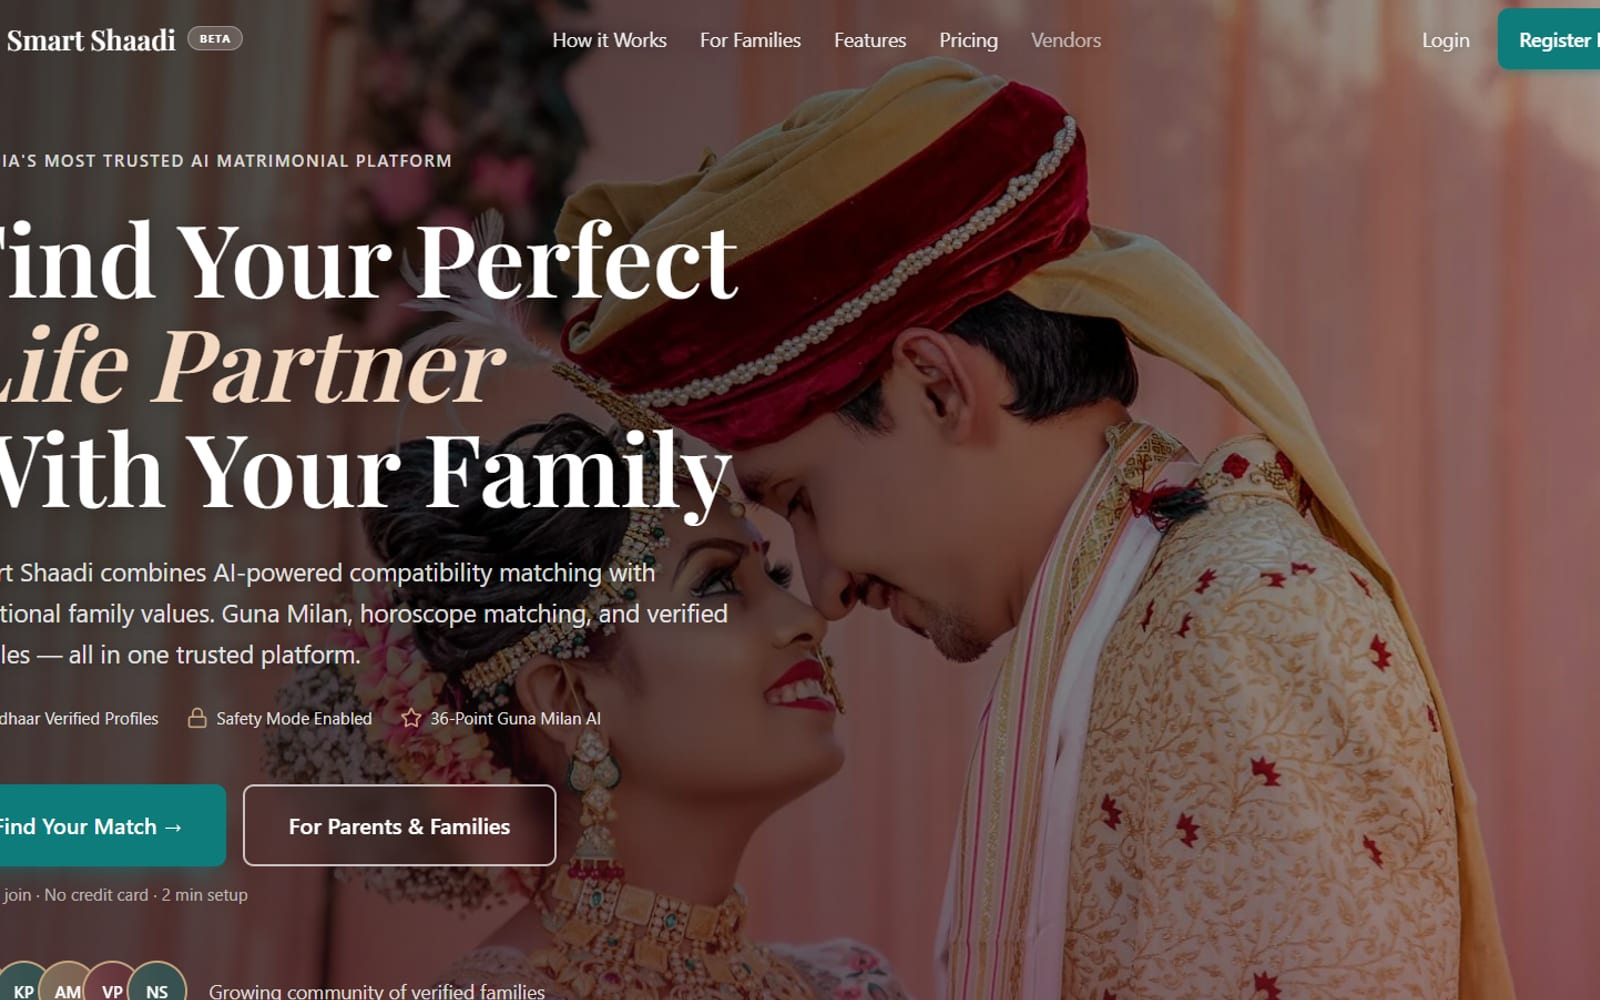
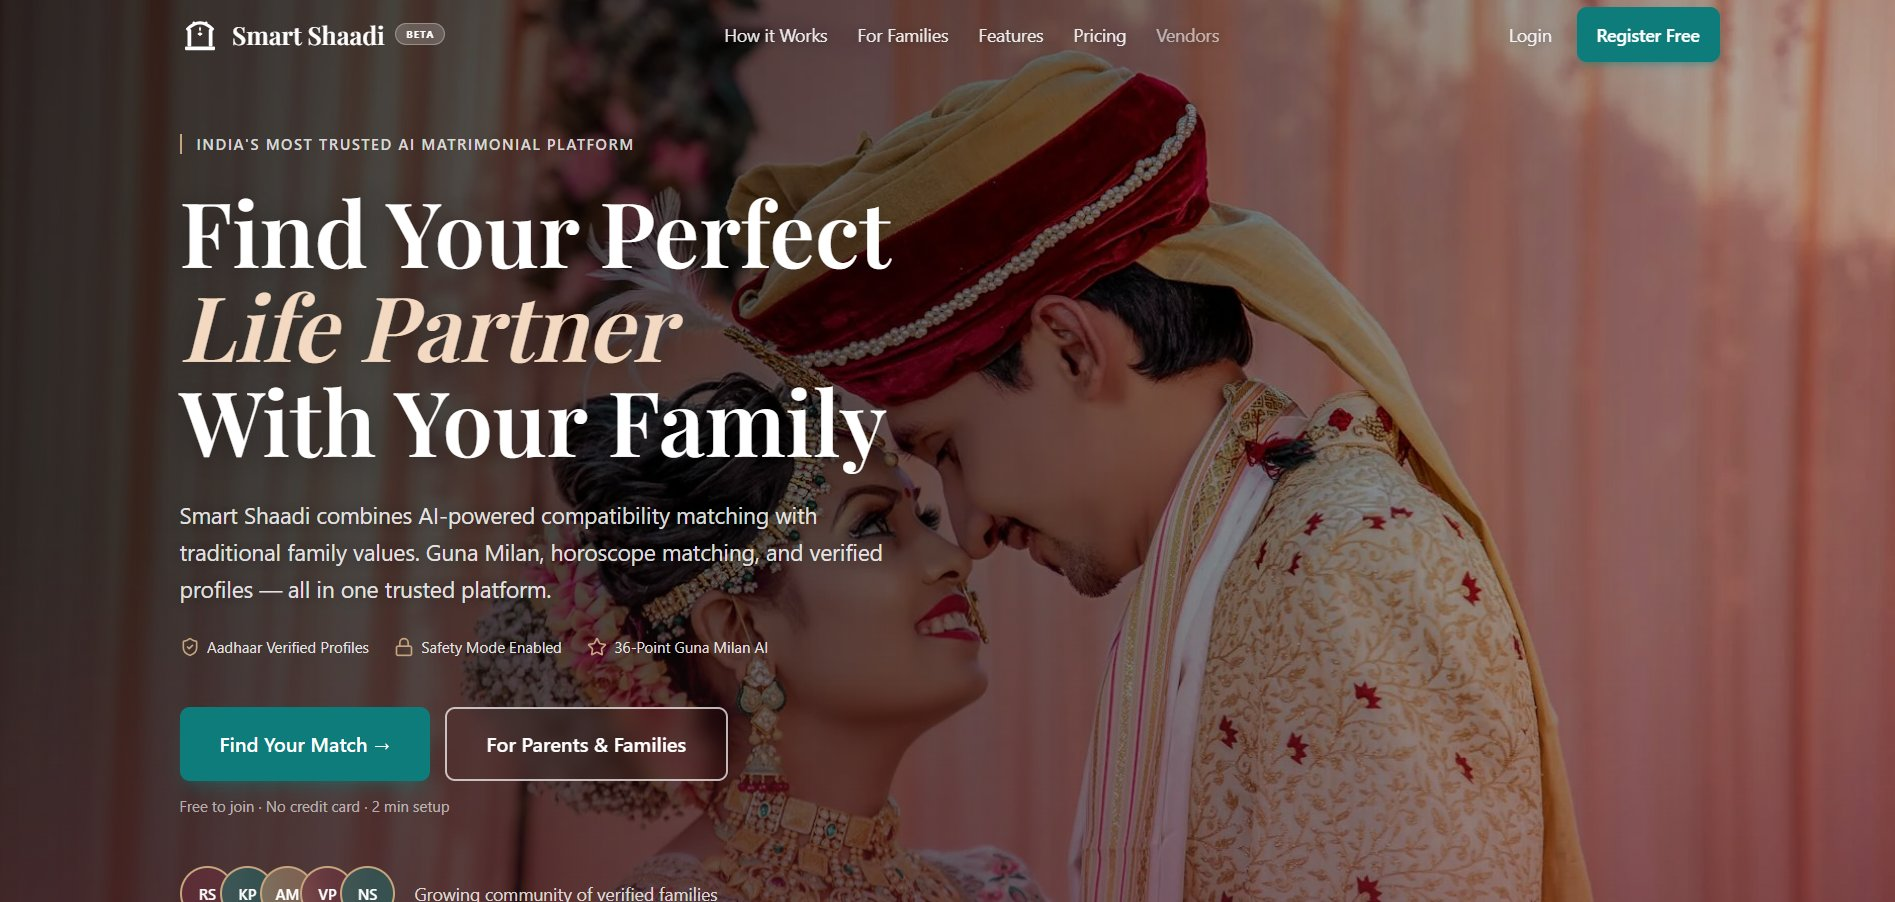
Apply portfolio review corrections and presentation refinements

diff --git a/src/components/Work.tsx b/src/components/Work.tsx
@@ -142,12 +142,19 @@ type Featured = {
   status: StatusKind;
   problem: string;
   contribution: string;
-  implementation: string;
+  implementation: string | string[];
+  technicalDetails?: string;
   statusNote: string;
   stack: string[];
   link?: { url: string; label: string };
   media:
-    | { kind: "image"; src: string; monogram: string }
+    | {
+        kind: "image";
+        src: string;
+        monogram: string;
+        imageFit?: "cover" | "contain";
+        fullImage?: boolean;
+      }
     | { kind: "detail"; monogram: string; features: string[] };
 };
 
@@ -163,8 +170,14 @@ const featured: Featured[] = [
       "Matrimonial platforms match on filters, not on how two people actually communicate or whether their families align.",
     contribution:
       "I built the platform end to end — profiles, authentication, chat and payment integrations — and designed and wired its AI layer.",
-    implementation:
-      "A streaming, multi-turn AI assistant with conversational memory and 13 read-only tools, backed by a provider-agnostic layer that switches between Gemini and Claude. Semantic profile re-ranking runs on 768-dimensional embeddings in PostgreSQL/pgvector. Six user-facing AI features are wired end to end — a conversation coach, a sentiment-based emotional score, an experimental compatibility-risk indicator, family-values compatibility, the streaming assistant and semantic re-ranking. Further backend/admin models (churn risk, response-rate reputation, marriage-readiness and profile optimisation) are implemented without a public UI.",
+    implementation: [
+      "Streaming, multi-turn assistant with conversational memory and read-only tool calling.",
+      "Provider-agnostic AI layer supporting Gemini and Claude.",
+      "Semantic profile re-ranking with embeddings in PostgreSQL / pgvector.",
+      "Conversation coaching, emotional scoring and experimental compatibility indicators.",
+    ],
+    technicalDetails:
+      "Semantic profile re-ranking uses 768-dimensional embeddings. Six user-facing AI features are wired end to end: a conversation coach, a sentiment-based emotional score, an experimental compatibility-risk indicator, family-values compatibility, the streaming assistant and semantic re-ranking. Further backend/admin models for churn risk, response-rate reputation, marriage-readiness and profile optimisation are implemented without a public UI.",
     statusNote:
       "Pre-launch: company registration is pending and the environment currently runs on dummy data and services ahead of commercial launch. The compatibility and risk indicators are experimental, not scientifically validated.",
     stack: [
@@ -179,6 +192,8 @@ const featured: Featured[] = [
     media: {
       kind: "image",
       src: "/media/smart-shaadi.jpg",
+      imageFit: "contain",
+      fullImage: true,
       monogram: "SS",
     },
   },
@@ -217,10 +232,10 @@ const featured: Featured[] = [
     contribution:
       "I built and deployed the live website and its admin tooling, and developed the companion Android app.",
     implementation:
-      "Medicine composition search, prescription upload, order management and catalogue import/export for bulk inventory — built on Next.js and Node.js with payment and order flows.",
+      "Medicine composition search, prescription upload, order management and catalogue import/export for bulk inventory — built on Next.js and Node.js with MongoDB / Mongoose, payment and order flows. The companion Android app uses Capacitor.",
     statusNote:
-      "Live website. The Android app is in Google Play testing, not yet publicly launched.",
-    stack: ["Next.js", "Node.js", "PostgreSQL", "Payments"],
+      "Live website. Capacitor Android app in Google Play testing, not yet publicly launched.",
+    stack: ["Next.js", "Node.js", "MongoDB / Mongoose", "Capacitor", "Payments"],
     link: { url: "https://www.pratigyamedicalstore.com/", label: "Visit site" },
     media: {
       kind: "image",
@@ -230,7 +245,7 @@ const featured: Featured[] = [
   },
 ];
 
-function FeatureBlock({ label, body }: { label: string; body: string }) {
+function FeatureBlock({ label, body }: { label: string; body: string | string[] }) {
   return (
     <div style={{ marginBottom: "1rem" }}>
       <p
@@ -239,12 +254,22 @@ function FeatureBlock({ label, body }: { label: string; body: string }) {
       >
         {label}
       </p>
-      <p
-        className="text-body-sm"
-        style={{ color: "var(--color-text-secondary)" }}
-      >
-        {body}
-      </p>
+      {Array.isArray(body) ? (
+        <ul
+          className="text-body-sm"
+          style={{
+            color: "var(--color-text-secondary)",
+            listStyleType: "disc",
+            paddingLeft: "1.2rem",
+            display: "grid",
+            gap: "0.4rem",
+          }}
+        >
+          {body.map((item) => <li key={item}>{item}</li>)}
+        </ul>
+      ) : (
+        <p className="text-body-sm" style={{ color: "var(--color-text-secondary)" }}>{body}</p>
+      )}
     </div>
   );
 }
@@ -264,14 +289,28 @@ function FeatureRow({ project, index }: { project: Featured; index: number }) {
       {/* Media / detail */}
       <div style={{ position: "relative" }}>
         {project.media.kind === "image" ? (
-          <ProjectMedia
-            type="image"
-            src={project.media.src}
-            monogram={project.media.monogram}
-            alt={`${project.name} — ${project.category}`}
-            accent={accent}
-            category={project.category}
-          />
+          <>
+            <ProjectMedia
+              imageFit={project.media.imageFit}
+              type="image"
+              src={project.media.src}
+              monogram={project.media.monogram}
+              alt={`${project.name} — ${project.category}`}
+              accent={accent}
+              category={project.category}
+            />
+            {project.media.fullImage && (
+              <a
+                href={project.media.src}
+                target="_blank"
+                rel="noopener noreferrer"
+                className="link-underline text-mono-sm"
+                style={{ display: "inline-block", marginTop: "0.75rem", color: "var(--color-accent-teal)" }}
+              >
+                Open full screenshot <span aria-hidden>↗</span>
+              </a>
+            )}
+          </>
         ) : (
           <div className="project-detail-panel">
             <div
@@ -358,6 +397,12 @@ function FeatureRow({ project, index }: { project: Featured; index: number }) {
         <FeatureBlock label="Problem" body={project.problem} />
         <FeatureBlock label="My contribution" body={project.contribution} />
         <FeatureBlock label="Implementation" body={project.implementation} />
+        {project.technicalDetails && (
+          <details style={{ marginBottom: "1rem", color: "var(--color-text-secondary)" }}>
+            <summary className="text-body-sm" style={{ cursor: "pointer", color: "var(--color-accent-teal)" }}>Technical details</summary>
+            <p className="text-body-sm" style={{ marginTop: "0.75rem" }}>{project.technicalDetails}</p>
+          </details>
+        )}
         <FeatureBlock label="Current status" body={project.statusNote} />
 
         <div style={{ margin: "1.25rem 0" }}>

diff --git a/src/components/Hero.tsx b/src/components/Hero.tsx
@@ -12,14 +12,10 @@ import { useEffect, useRef, useState } from "react";
 import { RESUME_PATH } from "@/lib/site";
 
 const headlineWords: { text: string; color: string }[] = [
-  { text: "I",            color: "var(--color-text-primary)" },
-  { text: "build",        color: "var(--color-text-primary)" },
-  { text: "full-stack",   color: "var(--color-accent-teal)" },
-  { text: "web",          color: "var(--color-text-primary)" },
-  { text: "platforms",    color: "var(--color-text-primary)" },
-  { text: "and",          color: "var(--color-text-primary)" },
-  { text: "applied-AI",   color: "var(--color-accent-purple)" },
-  { text: "features.",    color: "var(--color-text-primary)" },
+  { text: "Full-stack", color: "var(--color-accent-teal)" },
+  { text: "platforms.", color: "var(--color-text-primary)" },
+  { text: "Applied", color: "var(--color-accent-purple)" },
+  { text: "AI.", color: "var(--color-text-primary)" },
 ];
 
 const roles = [
@@ -195,7 +191,7 @@ export default function Hero() {
             style={{ maxWidth: "820px" }}
           >
             {/* Availability pill */}
-            <motion.div variants={fadeUp} style={{ marginBottom: "2rem" }}>
+            <motion.div variants={fadeUp} style={{ marginBottom: "1.25rem" }}>
               <div
                 style={{
                   display: "inline-flex",
@@ -230,7 +226,7 @@ export default function Hero() {
             {/* Headline */}
             <motion.h1
               variants={container}
-              className="text-h1"
+              className="text-h1 hero-heading"
               style={{
                 marginBottom: "1.5rem",
                 display: "flex",
@@ -252,7 +248,7 @@ export default function Hero() {
                     style={{ display: "inline-block", color: w.color }}
                   >
                     {w.text}
-                  </motion.span>
+                  </motion.span>{i < headlineWords.length - 1 ? " " : null}
                 </span>
               ))}
             </motion.h1>
@@ -263,7 +259,7 @@ export default function Hero() {
               className="text-subhead"
               style={{
                 color: "var(--color-text-secondary)",
-                marginBottom: "1.6rem",
+                marginBottom: "1rem",
                 display: "flex",
                 alignItems: "center",
                 gap: "0.5rem",
@@ -313,12 +309,9 @@ export default function Hero() {
                 fontWeight: 400,
               }}
             >
-              I turn client requirements into shipped software — owning{" "}
-              <span style={{ color: "var(--color-text-primary)", fontWeight: 500 }}>
-                architecture, development, integrations and deployment
-              </span>
-              . Experience across e-commerce, matrimonial platforms and
-              industrial IoT, with AI features built on LLM APIs, tool calling,
+              I build and ship web platforms for e-commerce, matrimonial services
+              and industrial IoT — owning architecture, development, integrations
+              and deployment. I add applied-AI features with LLM APIs, tool calling,
               semantic search and OpenCV.
             </motion.p>
 
@@ -326,7 +319,7 @@ export default function Hero() {
             <motion.p
               variants={fadeUp}
               className="text-mono-sm"
-              style={{ color: "var(--color-text-muted)", marginBottom: "2.25rem" }}
+              style={{ color: "var(--color-text-muted)", marginBottom: "1.5rem" }}
             >
               Bhopal, India ·{" "}
               <span style={{ color: "var(--color-text-secondary)" }}>

diff --git a/tests/ui-audit.spec.ts b/tests/ui-audit.spec.ts
@@ -5,11 +5,13 @@ const sections = ["About", "Work", "Experience", "Skills", "Contact"];
 
 test.beforeEach(async ({ page }) => {
   await page.goto("/");
+  // Wait for hydration before filling controlled inputs or using animated controls.
+  await expect(page.locator(".hero-ctas")).toHaveCSS("opacity", "1");
 });
 
 test("current portfolio sections and navigation work", async ({ page, isMobile }) => {
-  await expect(page.getByRole("heading", { level: 1 })).toContainText("full-stack");
-  await expect(page.getByRole("heading", { level: 1 })).toContainText("applied-AI");
+  await expect(page.getByRole("heading", { level: 1 })).toContainText("Full-stack");
+  await expect(page.getByRole("heading", { level: 1 })).toContainText("Applied AI");
   const nav = page.getByRole("navigation");
   const menu = nav.getByRole("button", { name: "Toggle menu" });
   if (isMobile) {
@@ -26,6 +28,37 @@ test("current portfolio sections and navigation work", async ({ page, isMobile }
   await expect(page).toHaveURL(/#work$/);
   await expect(page.getByRole("heading", { name: "Featured case studies." })).toBeVisible();
   if (isMobile) await expect(menu).toHaveAttribute("aria-expanded", "false");
+});
+
+test("hero actions fit a typical laptop viewport", async ({ page, isMobile }) => {
+  test.skip(isMobile, "Desktop layout acceptance check");
+  for (const viewport of [{ width: 1366, height: 768 }, { width: 1440, height: 900 }]) {
+    await page.setViewportSize(viewport);
+    await page.goto("/");
+    const hero = page.locator("#hero");
+    await expect(hero.locator(".hero-ctas")).toHaveCSS("opacity", "1");
+    for (const locator of [hero.getByRole("heading", { level: 1 }), hero.getByRole("link", { name: /view projects/i }), hero.getByRole("link", { name: /résumé/i })]) {
+      const bounds = await locator.boundingBox();
+      expect(bounds).not.toBeNull();
+      expect(bounds!.y).toBeGreaterThanOrEqual(0);
+      expect(bounds!.y + bounds!.height).toBeLessThanOrEqual(viewport.height);
+    }
+  }
+});
+
+test("Smart Shaadi technical details expand with the keyboard", async ({ page }) => {
+  const article = page.locator("#work article").filter({ has: page.getByRole("heading", { name: "Smart Shaadi", exact: true }) });
+  const details = article.locator("details");
+  await expect(details).not.toHaveAttribute("open");
+  await expect(article.getByText(/read-only tool calling/)).toBeVisible();
+  await expect(article.getByText(/Pre-launch: company registration/)).toBeVisible();
+  await details.locator("summary").focus();
+  await page.keyboard.press("Enter");
+  await expect(details).toHaveAttribute("open", "");
+  await expect(details.getByText(/768-dimensional/)).toBeVisible();
+  await page.keyboard.press("Enter");
+  await expect(details).not.toHaveAttribute("open");
+  await expect(article.getByRole("link", { name: /open full screenshot/i })).toHaveAttribute("href", "/media/smart-shaadi.jpg");
 });
 
 test("all project screenshots load and retain their status labels", async ({ page }) => {

diff --git a/src/components/About.tsx b/src/components/About.tsx
@@ -75,31 +75,6 @@ export default function About() {
                 style={{
                   position: "absolute",
                   inset: 0,
-                  backgroundImage:
-                    "radial-gradient(circle, var(--color-border) 1px, transparent 1px)",
-                  backgroundSize: "18px 18px",
-                  opacity: 0.18,
-                  pointerEvents: "none",
-                }}
-              />
-              <div
-                aria-hidden
-                style={{
-                  position: "absolute",
-                  top: 0,
-                  right: 0,
-                  width: "70%",
-                  height: "70%",
-                  background:
-                    "linear-gradient(225deg, rgba(6,201,168,0.12), transparent 60%)",
-                  pointerEvents: "none",
-                }}
-              />
-              <div
-                aria-hidden
-                style={{
-                  position: "absolute",
-                  inset: 0,
                   background:
                     "linear-gradient(to top, rgba(0,0,0,0.8) 0%, rgba(0,0,0,0.18) 38%, transparent 62%)",
                   pointerEvents: "none",
@@ -139,20 +114,6 @@ export default function About() {
                   Full-Stack Engineer · Bhopal, India
                 </span>
               </div>
-
-              <div
-                aria-hidden
-                style={{
-                  position: "absolute",
-                  left: 0,
-                  right: 0,
-                  height: "1px",
-                  background:
-                    "linear-gradient(90deg, transparent, rgba(6,201,168,0.5), transparent)",
-                  animation: "scan-line 4s linear infinite",
-                  pointerEvents: "none",
-                }}
-              />
             </div>
 
             <p

diff --git a/src/components/ProjectMedia.tsx b/src/components/ProjectMedia.tsx
@@ -14,6 +14,7 @@ interface ProjectMediaProps {
   category?: string;
   monogram?: string;
   aspectRatio?: string;
+  imageFit?: "cover" | "contain";
 }
 
 export default function ProjectMedia({
@@ -25,6 +26,7 @@ export default function ProjectMedia({
   category,
   monogram,
   aspectRatio = "16 / 10",
+  imageFit = "cover",
 }: ProjectMediaProps) {
   const videoRef = useRef<HTMLVideoElement>(null);
   const containerRef = useRef<HTMLDivElement>(null);
@@ -78,7 +80,7 @@ export default function ProjectMedia({
           fill
           sizes="(max-width: 900px) 100vw, 50vw"
           onError={() => setFailed(true)}
-          style={{ objectFit: "cover" }}
+          style={{ objectFit: imageFit }}
         />
       )}
 

diff --git a/src/app/globals.css b/src/app/globals.css
@@ -392,10 +392,6 @@ section {
 .fade-up { opacity: 0; transform: translateY(30px); }
 
 /* Keyframes */
-@keyframes scan-line {
-  0% { top: 0; }
-  100% { top: 100%; }
-}
 @keyframes pulse-dot {
   0%, 100% { box-shadow: 0 0 0 0 rgba(34, 197, 94, 0.4); }
   50% { box-shadow: 0 0 0 6px rgba(34, 197, 94, 0); }
@@ -510,7 +506,13 @@ section {
 
 /* Hero */
 .hero-grid {
-  padding: 9rem 2rem 4rem;
+  padding: 7rem 2rem 4rem;
+}
+.hero-heading {
+  font-size: clamp(2.75rem, 4.5vw, 4rem);
+}
+@media (min-width: 1025px) and (max-height: 800px) {
+  .hero-grid { padding-top: 6rem; padding-bottom: 3rem; }
 }
 @media (max-width: 1024px) {
   .hero-panel { display: none !important; }

diff --git a/public/media/README.md b/public/media/README.md
@@ -26,6 +26,8 @@ The About section continues to use `ashwin.jpg`.
 
 ## Screenshots
 
-The display frames are 16:10 and crop images to fill. For future replacements,
-use a matching crop and JPEG quality 80–85. Images are served without automatic
+The display frames are 16:10 and normally crop images to fill. Smart Shaadi
+uses the complete original landing capture with `contain` and a link to open
+the full-resolution screenshot, preserving the text at the image edges.
+For future replacements, use JPEG quality 80–85 and preserve meaningful content. Images are served without automatic
 optimization because this site uses Next.js static export.
